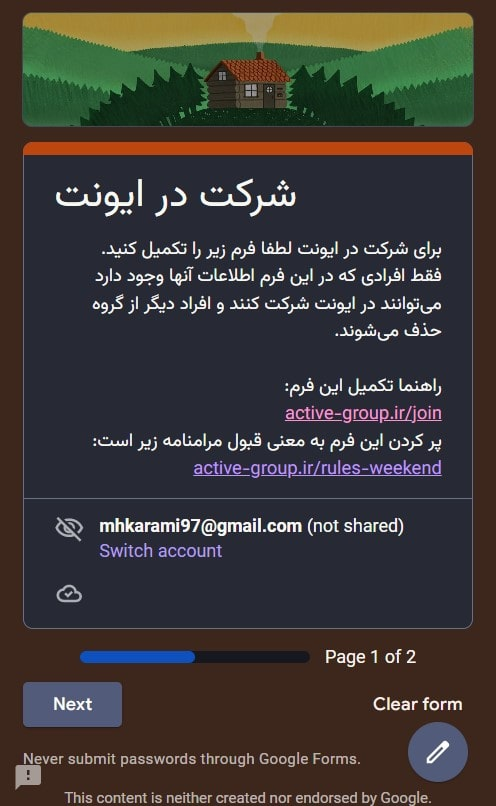
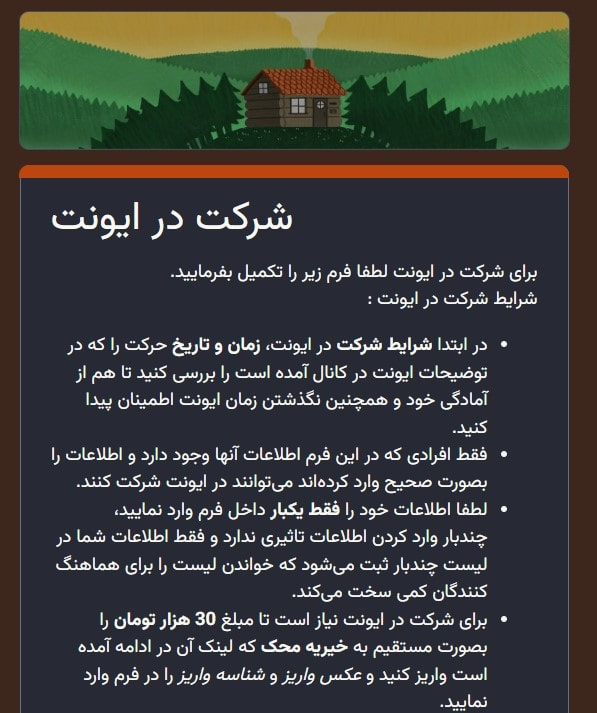
update join

diff --git a/_layouts/creator.html b/_layouts/creator.html
@@ -54,12 +54,12 @@ permalink: "/creator.html"
         <option selected disabled>انتخاب نوع ایونت</option>
         <optgroup label="ایونتها">
             <option value="travel">طبیعتگردی</option>
-            <option value="music">موسیقی</option>
+            <!-- <option value="music">موسیقی</option>
             <option value="film">فیلم</option>
             <option value="sport">ورزش</option>
             <option value="design">طراحی</option>
             <option value="book">کتابخوانی</option>
-            <option value="english">دیسکاشن</option>
+            <option value="english">دیسکاشن</option> -->
         </optgroup>
         <optgroup label="اطلاعات بیشتر">
             <option value="cars">لیست ماشینها</option>
@@ -252,9 +252,9 @@ permalink: "/creator.html"
             "<br>" +
             "🗒 توضیحات : " + description +
             "<br>" +
-            "🆓 هزینه : شرکت در رویدادهای گروه اکتیو هزینه ای ندارد و کاملا دوستانه است و خرجها بر عهده خود افراد است" +
+            "🆓 هزینه : شرکت در رویدادهای گروه اکتیو بجز ورودی که آن را هم مستقیم به خیریه واریز میکنید هزینه ای ندارد و کاملا دوستانه است و خرجها بر عهده خود افراد است" +
             "<br>" +
-            "🚗 روش رفتن : ماشین شخصی، افرادی که ماشین ندارند میتوانند با افراد دیگر گروه هماهنگ کنند و با ماشین آنها به ایونت بیایند" +
+            "🚗 روش رفتن : ماشین شخصی، در صورت امکان افرادی که ماشین ندارند میتوانند با افراد دیگر گروه هماهنگ کنند و با ماشین آنها به ایونت بیایند" +
             "<br>" +
             "✏ وسایل مورد نیاز : کفش کوهنوردی، لباس فصل، تغذیه کافی، ظروف پخت غذا، آب آشامیدنی، (کیسه خواب و چادر برای سفرهای بیش از یک روز)" +
             "<br>" +
@@ -262,13 +262,9 @@ permalink: "/creator.html"
             "<br>" +
             "---------------------------------------------------------" +
             "<br>" +
-            "❇ به منظور پیشبرد اهداف گروه در نظر داریم، کمپها و شبنشینیها همراه با کتابخوانی باشد، بههمین منظور شرکت کنندگانی که تمایل دارند میتوانند کتاب مورد علاقه، آخرین کتاب خوانده شده و یا کتابی که درحال مطالعه آن هستند را بدین منظور با خود آورده و قسمتی از آن را برای سایر اعضا بخوانند." +
-            "<br>" +
             "✅ از کلیه اعضا گروه تقاضا داریم با مطالعه و رعایت مرامنامه گروه اکتیو از ایجاد سروصدای زیاد موسیقی در محیط کمپ خودداری نموده و همچنین رعایت حال سایر همسفرها را برای استراحت بهتر بعد از ساعت 12 شب بعمل آورند. بدین منظور لطفا اسپیکر بزرگ همراه خود نیاورید و همچنین بعد از ساعت گفته شده از سروصدا در داخل و یا بیرون چادر خودداری بفرمایید." +
             "<br>" +
             "❇ برای داشتن طبیعتی عاری از زباله از شرکت کنندگان تقاضا داریم ضمن عدم استفاده از ظروف پلاستیکی و یکبار مصرف و کاهش تولید زباله با آوردن کیسه زباله ما را در طرح جمع آوری زباله که توسط همراهان ایونت برگزار میشود؛ همراهی کنند." +
-            "<br>" +
-            "🫂 امید است با ایجاد بستری توام با آرامش، زمینه مناسبی برای ارتقا سطح نشاط، آگاهی و شعور اجتماعی برای یکدیگر ایجاد کنیم." +
             "<br>" +
             "❗شرکت کردن شما در این ایونت به منزله پذیرفتن تعهد شما مبنی بر عدم استفاده و همراه داشتن مواد مخدر و مشروبات الکلی در این ایونت میباشد و در صورت تخطی از این امر، از شرکت فرد در ایونتها جلوگیری خواهد شد." +
             "<br>" +

diff --git a/_pages/join.md b/_pages/join.md
@@ -12,16 +12,33 @@ comments: true
   <img src="/assets/img/join/01.jpg" alt="join" width="400" />
 </p>
 
-## نام
+### نام
 در این بخش باید `نام و نام خانوادگی` کامل خود را وارد کنید.  
-## شماره موبایل
+### شماره موبایل
 در این بخش باید `شماره موبایلی` که توسط آن میخواهید در ایونت شرکت کنید و با آن در گروه عضو میشوید را وارد کنید.  
+### شناسه واریز
+شناسه پرداخت کمک به خیره محک را در این بخش وارد کنید.
 
 <p align="center">
   <img src="/assets/img/join/02.jpg" alt="join" width="400" />
 </p>
 
-اکنون کافی است بر روی `submit` کلیک کنید.
+### عکس واریز
+برای پرداخت هزینه شرکت در ایونت هم کافی است به سایت موسسه محک بروید و شبیه به عکس زیر مبلغ گفته شده را واریز کنید:
+
+[mahak](https://mahak-charity.org/online-payment/)  
+
+<p align="center">
+  <img src="/assets/img/join/05.jpg" alt="join" width="400" />
+</p>
+
+در انتها صفحهای به صورت زیر نمایش داده میشود که باید از آن عکس بگیرید و طبق توضیحات داده شده در فرم عضویت آن را به شناسه گفته شده ارسال کنید.
+
+<p align="center">
+  <img src="/assets/img/join/06.jpg" alt="join" width="400" />
+</p>
+
+اکنون کافی است برای ارسال اطلاعات بر روی `submit` کلیک کنید.
 
 <p align="center">
   <img src="/assets/img/join/03.jpg" alt="join" width="400" />
@@ -30,8 +47,10 @@ comments: true
 در این صفحه لینک عضویت در گروه موقت ایونت که اختصاصی شما است را مشاهده میکنید.
 اگر لینک برای شما کار نکرد در مرحله اول آن را کپی کنید و در تلگرام برای خود ارسال کنید و سپس بر روی آن کلیک کنید. اگر باز هم به خطا خوردید توسط لینک زیر آخرین نسخه تلگرام را دانلود کنید و سپس با لینک در گروه عضو شوید.  
 
-[telegram](https://telegram.org/android)
+[telegram](https://telegram.org/android)  
 
 <p align="center">
   <img src="/assets/img/join/04.jpg" alt="join" width="400" />
 </p>
+
+دقت کنید که اطلاعات شما بررسی میشود و در صورت صحت آنها عضویت شما در گروه تایید میشود.
